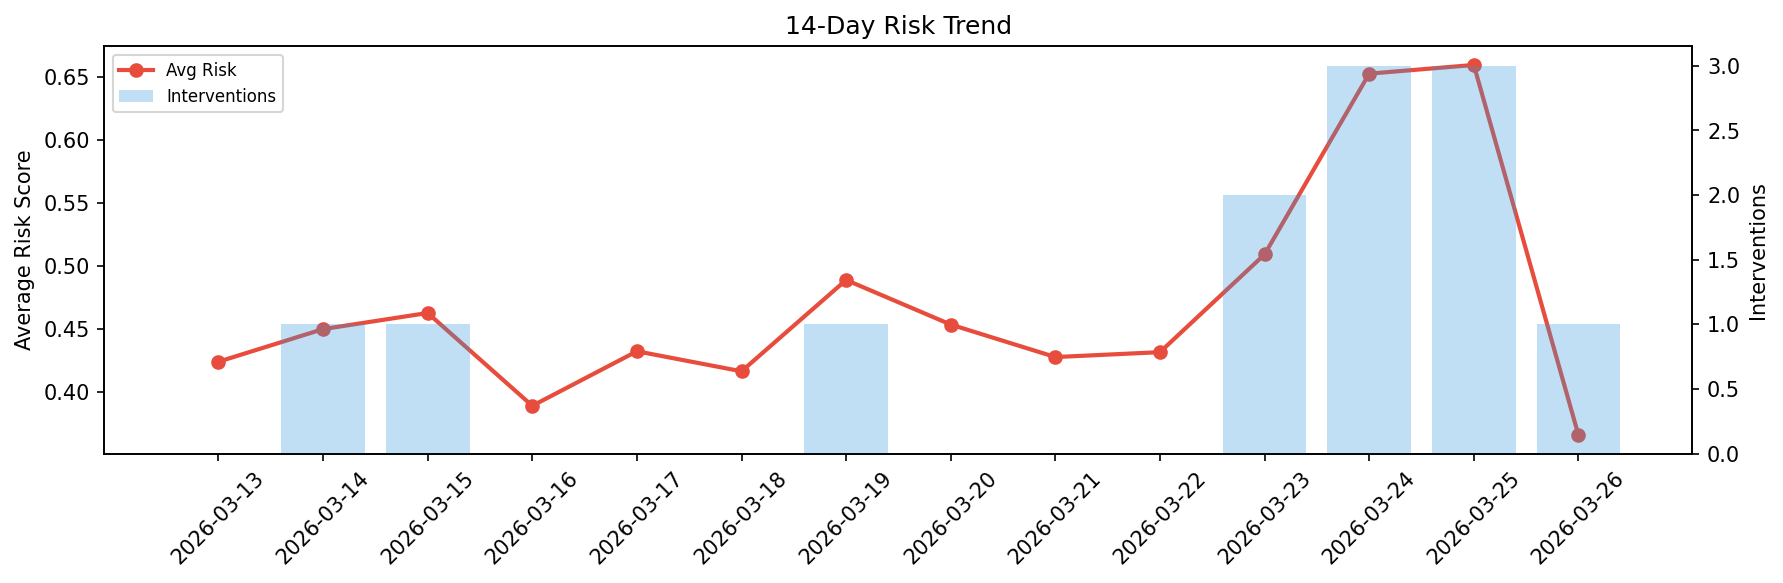
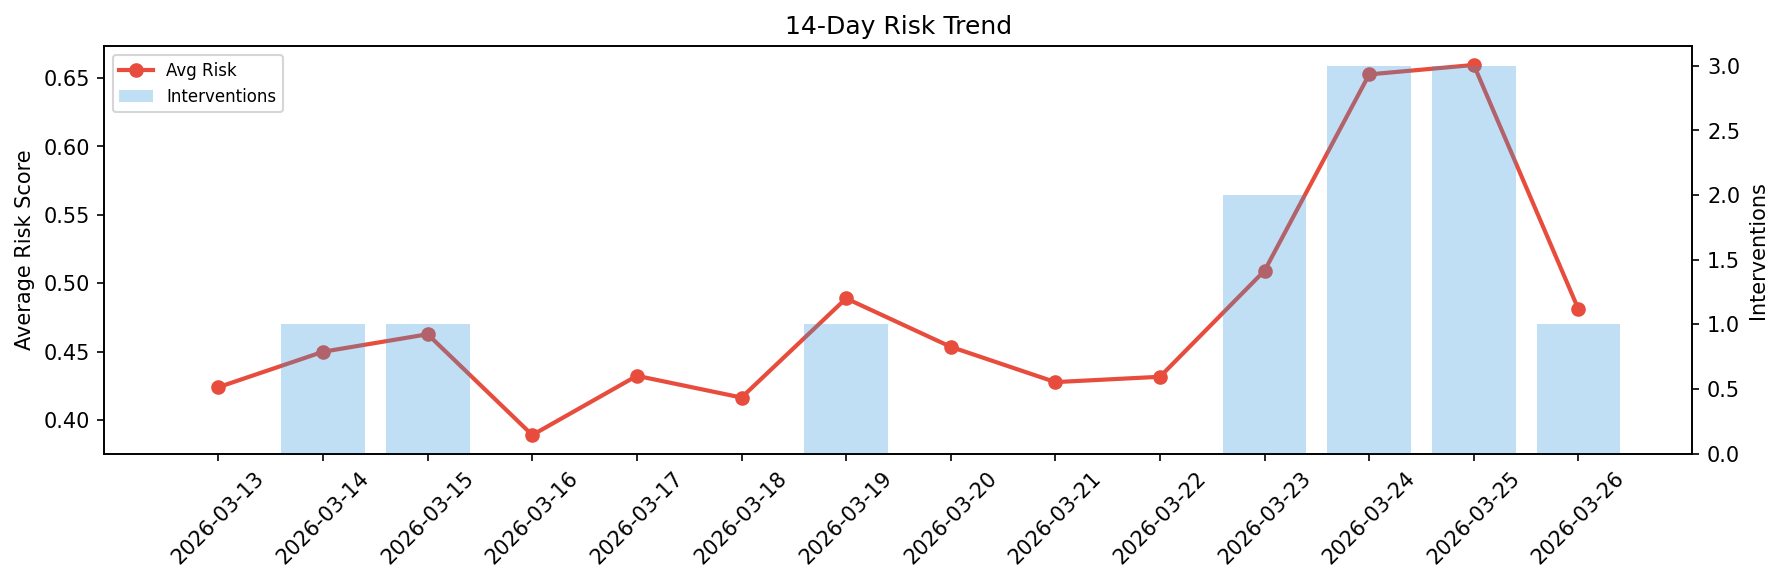
agent-improvement: daily cycle 2026-03-26T09:13

diff --git a/logs/2026-03-26.md b/logs/2026-03-26.md
@@ -1,6 +1,6 @@
 # Agent Improvement Report — 2026-03-26
 
-**Cycle ID:** `251bb796` | **Avg Risk:** 0.3658 | **Interventions:** 1/4
+**Cycle ID:** `f2c24c88` | **Avg Risk:** 0.481 | **Interventions:** 1/4
 
 ![Dashboard](2026-03-26_dashboard.png)
 
@@ -10,18 +10,18 @@
 
 | Domain | Risk Score | Decision | Alerts |
 |--------|-----------|----------|--------|
-| code_review | 0.1941 | monitor | none |
-| incident_response | 0.0931 | monitor | none |
-| data_pipeline | 0.6392 | intervene | freshness |
-| deployment | 0.5367 | monitor | rollback_rate |
+| code_review | 0.454 | monitor | duplication |
+| incident_response | 0.2589 | monitor | none |
+| data_pipeline | 0.7095 | intervene | schema_drift, volume_anomaly |
+| deployment | 0.5015 | monitor | rollback_rate |
 
 ## Delta vs Yesterday
 
 | Domain | Today | Yesterday | Change |
 |--------|-------|-----------|--------|
-| code_review | 0.1941 | 0.7146 | 📉 -72.8% |
-| incident_response | 0.0931 | 0.7299 | 📉 -87.2% |
-| data_pipeline | 0.6392 | 0.7167 | 📉 -10.8% |
-| deployment | 0.5367 | 0.4773 | 📈 12.4% |
+| code_review | 0.454 | 0.7146 | 📉 -36.5% |
+| incident_response | 0.2589 | 0.7299 | 📉 -64.5% |
+| data_pipeline | 0.7095 | 0.7167 | 📉 -1.0% |
+| deployment | 0.5015 | 0.4773 | 📈 5.1% |
 
 **Refinement:** `{'adjustment': 'tighten_thresholds', 'trend': 'degrading', 'window': 4}`
